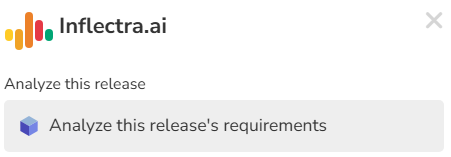
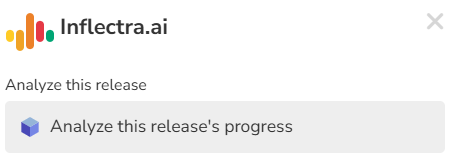
[RQ:5450] Update Inflectra.ai docs and release notes

diff --git a/docs/Spira-User-Manual/Inflectra-Ai-In-Spira.md b/docs/Spira-User-Manual/Inflectra-Ai-In-Spira.md
@@ -146,7 +146,7 @@ This allows you to get a birds-eye view of a release.
 
 | Analysis Type         | Description                                                                                                                                  |
 | --------------------- | -------------------------------------------------------------------------------------------------------------------------------------------- |
-| Requirements          | Describes the requirements that are associated to this specific release, to give an overview of what is planned, in progress, and delivered. |
+| Progress          | Analyzes the progress of requirements that are associated to this specific release, giving a summary of overall status, risks, and requirement content. |
 | ... Create Attachment | Create a new document with this analysis and attach it to the release                                                                        |
 | ... Add comment       | Add a comment with this analysis to the release (the comment will include a label to mark it as ai-generated)                                |
 

diff --git a/docs/About/release-notes-inflectra.ai-v1.md b/docs/About/release-notes-inflectra.ai-v1.md
@@ -1,5 +1,11 @@
 # Release Notes for Inflectra.ai
 
+## October 31 2025
+!!! success "New Features"
+    - **[Release analysis](../Spira-User-Manual/Inflectra-Ai-In-Spira.md/#release-analysis)**
+        - As an Inflectra.ai and release user, I can analyze the broader status of my release, to gain a better understanding of its content and progress [RQ:5450]
+
+
 ## October 17 2025
 !!! success "New Features"
     - **[Release analysis](../Spira-User-Manual/Inflectra-Ai-In-Spira.md/#release-analysis)**
